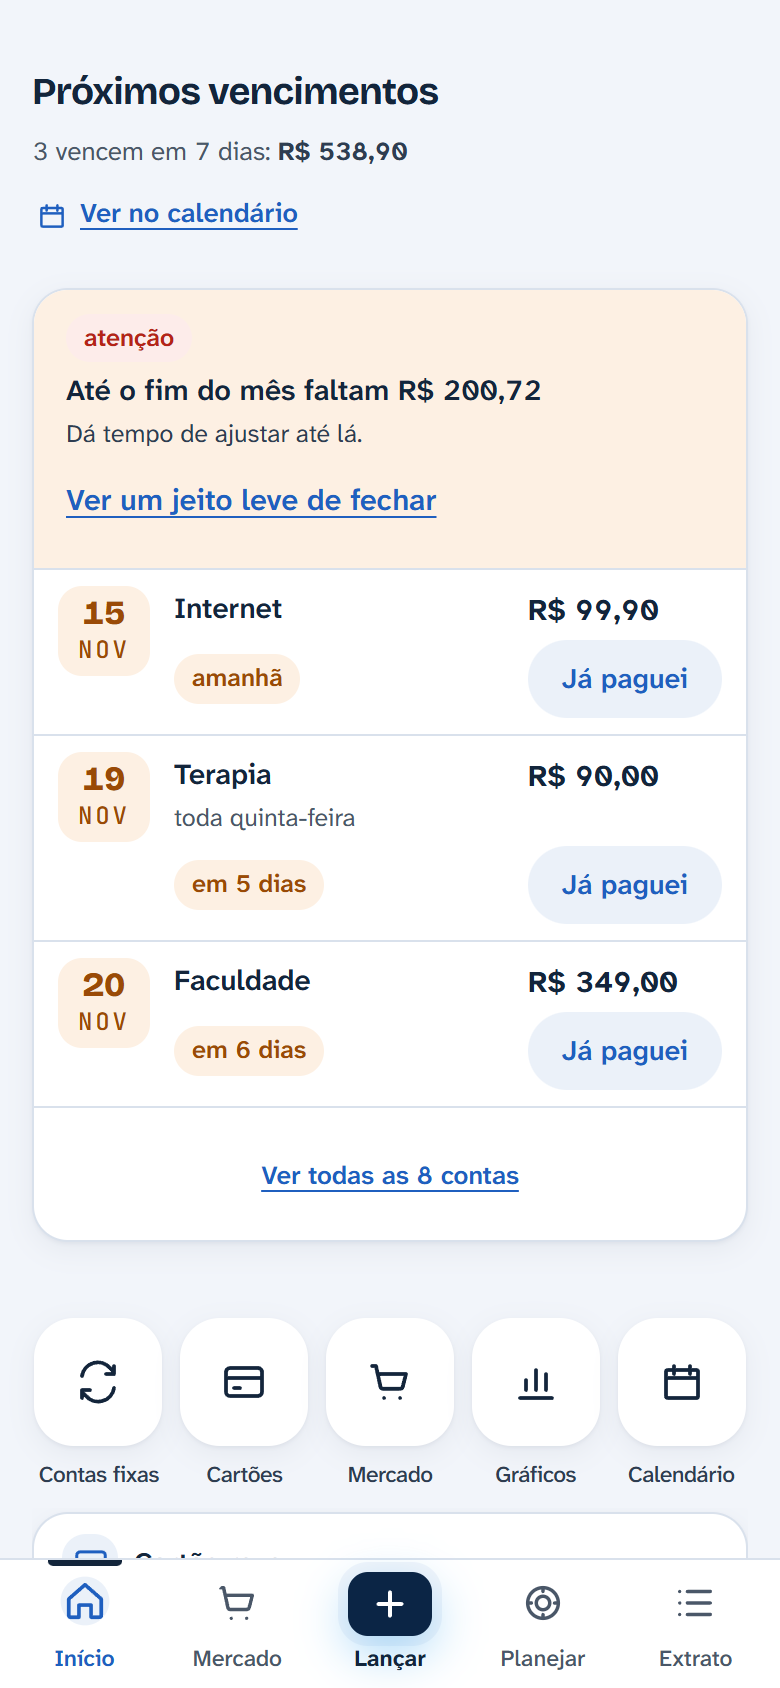
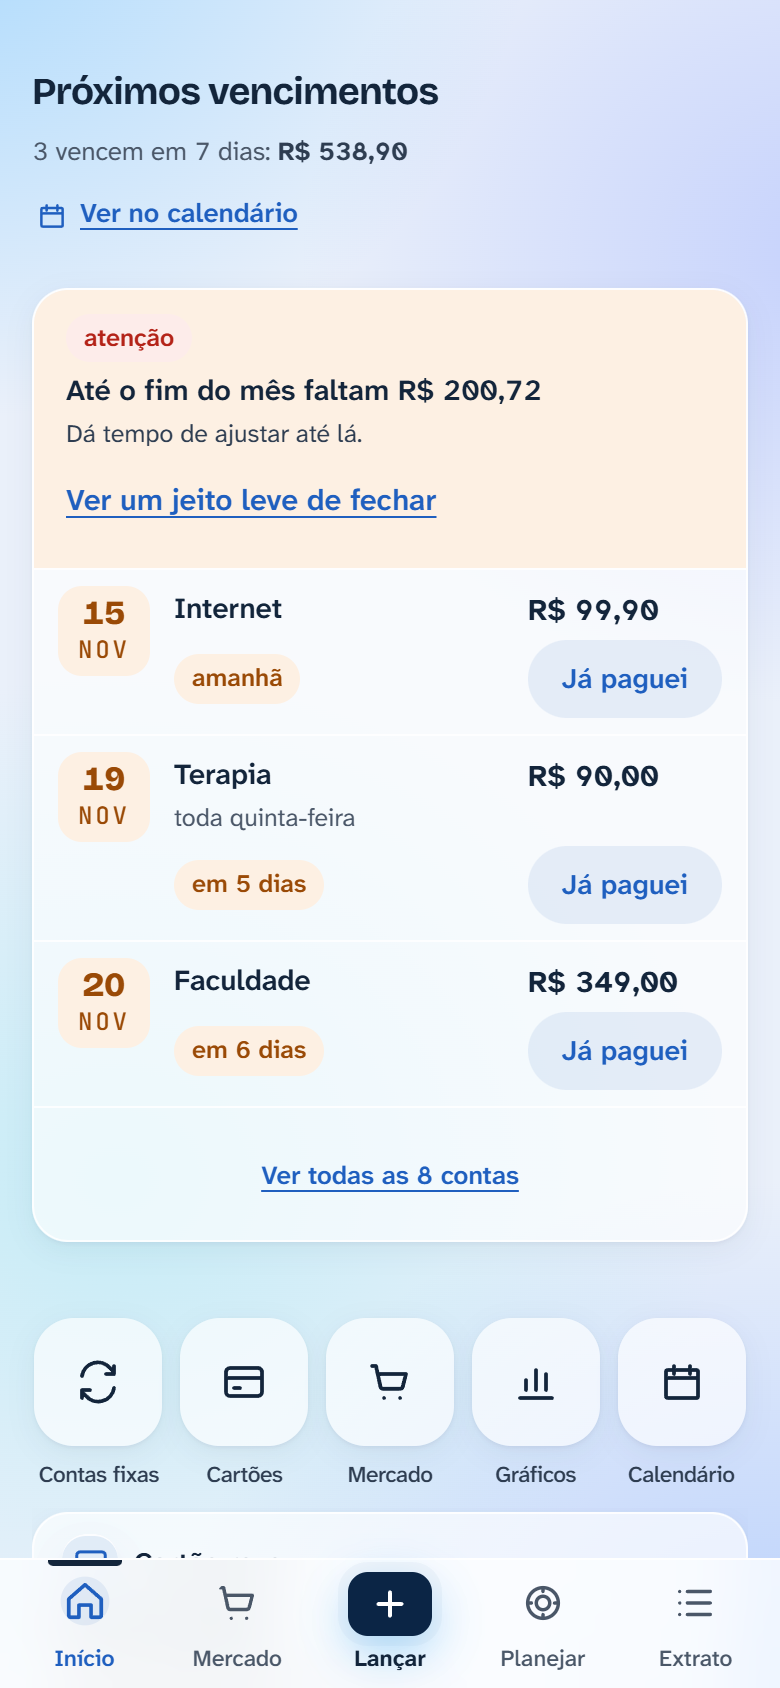
v267: visual de vidro no app e no site; bom-dia com o nome do e-mail e toque para mudar

diff --git a/css/tech.css b/css/tech.css
@@ -485,3 +485,30 @@ table.lanc td.num{font-family:var(--sans);letter-spacing:0;font-weight:700}
 :root[data-tema="escuro"] #lFiltros .seg{background:rgba(255,255,255,.06)}
 :root[data-tema="escuro"] #lFiltros .seg button[aria-pressed="true"]{background:#5fd4ff;color:#06203a}
 :root[data-tema="escuro"] table.lanc tr:not(.dia)::after{background:rgba(95,212,255,.14);color:#5fd4ff}
+
+/* v267: o bom-dia é um botão (toque para mudar o nome), mas continua com cara de título */
+button.saudacao{display:block;border:0;background:none;padding:0;text-align:left;cursor:pointer;min-height:32px}
+
+/* v267 "vidro": no tema claro, um fundo com manchas suaves de azul e ciano (paradas, atrás de tudo) e os cartões
+   brancos meio transparentes por cima, com borda clara, deixando a cor do fundo aparecer. As manchas já são borradas,
+   então não precisa de desfoque nos cartões (que pesaria em celular simples). Janelas e campos continuam brancos. */
+:root[data-tema="claro"]{
+  --surface:rgba(255,255,255,.66); --surface-2:rgba(255,255,255,.5); --sunk:rgba(220,230,245,.55); --border:rgba(255,255,255,.85);
+  --glass:rgba(255,255,255,.72);
+}
+:root[data-tema="claro"] body{background:#eaf0fa}
+:root[data-tema="claro"] body::before{content:"";position:fixed;inset:0;z-index:-1;pointer-events:none;
+  background:
+    radial-gradient(60vmax 50vmax at -10% -5%,rgba(120,200,255,.55),transparent 60%),
+    radial-gradient(55vmax 45vmax at 110% 15%,rgba(150,170,255,.45),transparent 60%),
+    radial-gradient(60vmax 50vmax at 15% 70%,rgba(140,230,240,.38),transparent 60%),
+    radial-gradient(60vmax 50vmax at 100% 100%,rgba(110,160,255,.4),transparent 60%),
+    #eaf0fa}
+:root[data-tema="claro"] .card,:root[data-tema="claro"] .panel,:root[data-tema="claro"] .ext-num,:root[data-tema="claro"] table.lanc tr:not(.dia),
+:root[data-tema="claro"] .agora-c,:root[data-tema="claro"] .mais-item,:root[data-tema="claro"] .hoje-item{box-shadow:0 8px 24px rgba(30,70,140,.08),inset 0 1px 0 rgba(255,255,255,.9)}
+:root[data-tema="claro"] .ext-num{background:var(--surface);border-color:var(--border)}
+:root[data-tema="claro"] dialog,:root[data-tema="claro"] .in,:root[data-tema="claro"] input,:root[data-tema="claro"] select,:root[data-tema="claro"] textarea{--surface:#fff;--surface-2:#f5f8fc;--sunk:#ebf0f7;--border:#d9e1ec}
+:root[data-tema="claro"] dialog{background:#fff}
+@media (max-width:700px){:root[data-tema="claro"] dialog,:root[data-tema="claro"] dialog::backdrop{background:#f2f5fa}}
+:root[data-tema="claro"] #bnav{background:rgba(255,255,255,.72);-webkit-backdrop-filter:blur(18px) saturate(1.4);backdrop-filter:blur(18px) saturate(1.4);border-top-color:rgba(255,255,255,.9)}
+:root[data-tema="claro"] .wrap[data-tab="mot"] #listas,:root[data-tema="claro"] #app[data-view="listas"][data-tab="mot"] #listas,:root[data-tema="claro"] body:has(#app[data-view="listas"][data-tab="mot"]){background:transparent}

diff --git a/js/app.js b/js/app.js
@@ -2754,9 +2754,24 @@ function juntaReservasAntigas() {
 /** "Bom dia, Marcos": o primeiro nome que a pessoa já deu ao app (recibo ou Arrumar lançamentos). Sem nome, só o cumprimento. */
 function saudacaoDoDia() {
   const h = new Date().getHours(), oi = h < 12 ? "Bom dia" : h < 18 ? "Boa tarde" : "Boa noite";
-  const nome = String(S.prefs.meuNome || S.prefs.recibo?.nome || "").trim().split(/\s+/)[0] || "";
-  return `<p class="saudacao">${oi}${nome ? `, ${esc(nome.charAt(0).toUpperCase() + nome.slice(1))}` : ""} 👋</p>`;
+  // O nome vem só do que a pessoa escolheu aqui ou do e-mail da conta. O nome do recibo e o "nome como no banco"
+  // podem ser de outra pessoa (o carro ou a conta no nome da esposa, por exemplo), então não servem para cumprimentar.
+  const nome = nomeDaSaudacao();
+  return `<button type="button" class="saudacao" id="saudaNome" aria-label="${oi}${nome ? ", " + esc(nome) : ""}. Toque para mudar como o app chama você">${oi}${nome ? `, ${esc(nome)}` : ""} 👋</button>`;
 }
+function nomeDaSaudacao() {
+  if (S.prefs.apelido !== undefined) return String(S.prefs.apelido || "").trim();
+  const n = String(nomeDoEmail($("whoName")?.textContent || "") || "").trim().split(/\s+/)[0] || "";
+  return n ? n.charAt(0).toUpperCase() + n.slice(1) : "";
+}
+/** Tocar no bom-dia: escolher como o app chama a pessoa (ou não usar nome). */
+function mudaApelido() {
+  openDlg(`<h3>Como quer ser chamado?</h3><p class="hint">Aparece só no bom-dia do Início. Deixe vazio para não usar nome.</p>
+    <label class="f wide">Seu nome<input class="in" id="apNome" maxlength="30" autocomplete="given-name" value="${esc(nomeDaSaudacao())}"></label>
+    <div class="mot-opcoes"><button class="btn primary" type="button" id="apSalva">Salvar</button><button class="btn" type="button" data-close>Cancelar</button></div>`);
+  $("apSalva").onclick = async () => { S.prefs.apelido = $("apNome").value.trim(); await salvaPrefs(); $("dlg").close(); render(); };
+}
+document.addEventListener("click", (e) => { if (e.target.closest?.("#saudaNome")) mudaApelido(); });
 /** O anel do Início: quanto do dinheiro livre do mês ainda resta (o arco) e onde deveria estar pelo dia de hoje (o tracinho). */
 function anelDoLivre(usado, tempo) {
   const resta = Math.max(0, 100 - usado), r = 26, c = 2 * Math.PI * r, arco = (c * resta) / 100;

diff --git a/js/novidades.js b/js/novidades.js
@@ -1,5 +1,6 @@
 /* O que mudou em cada versão, em palavras de quem usa o app. A tela "Novidades" mostra as últimas. */
 export const NOVIDADES = [
+  { versao: "267", itens: ["Visual novo de vidro: o fundo tem manchas suaves de azul e os cartões ficam meio transparentes por cima. A barra de baixo ficou fosca.", "O bom-dia do Início usa o nome do seu e-mail. Toque nele para escolher outro nome ou não usar nome."] },
   { versao: "266", itens: ["Extrato: no topo, três quadrinhos mostram quanto entrou, quanto falta pagar e a comparação com o mês passado.", "A aba escolhida (Tudo, Gastos, Entradas...) fica em azul, e cada lançamento tem uma setinha redonda mostrando que abre."] },
   { versao: "265", itens: ["Jornada: um anel mostra quanto da meta de hoje você já fez, com quanto ainda falta logo ao lado.", "Os atalhos da Jornada (Lançar outro dia, Por prints, Meus ganhos, Recibo) ganharam as mesmas cores suaves do Início."] },
   { versao: "264", itens: ["Início com cara nova: um bom-dia no topo, um anel mostrando quanto do dinheiro livre do mês ainda resta (o tracinho amarelo é onde ele deveria estar hoje) e o valor em letra grande.", "Os atalhos (Recebi, Escanear, Falar) ganharam cores suaves diferentes, para reconhecer sem ler, e os cartões têm uma seta que mostra que abrem."] },

diff --git a/site/index.html b/site/index.html
@@ -515,6 +515,10 @@ picture{display:contents}
 .fica-oculto{display:none!important}
 .ver-mais{display:block;margin:18px auto 0;min-height:44px;padding:10px 22px;border:1px solid var(--line);border-radius:999px;background:var(--surface);color:var(--ink);font:inherit;font-weight:600;cursor:pointer}
 @media (max-width:700px){.so-largo{display:none} #recursos~section .larga{display:none} .usar .barra-app{display:none}}
+/* v267 vidro, igual ao app: manchas suaves de azul e ciano paradas atrás de tudo e cartões brancos meio transparentes */
+:root{--surface:rgba(255,255,255,.7)}
+body{background:#eaf0fa}
+body::before{content:"";position:fixed;inset:0;z-index:-1;pointer-events:none;background:radial-gradient(60vmax 50vmax at -10% -5%,rgba(120,200,255,.55),transparent 60%),radial-gradient(55vmax 45vmax at 110% 15%,rgba(150,170,255,.45),transparent 60%),radial-gradient(60vmax 50vmax at 15% 70%,rgba(140,230,240,.38),transparent 60%),radial-gradient(60vmax 50vmax at 100% 100%,rgba(110,160,255,.4),transparent 60%),#eaf0fa}
 </style>
 <!-- v256: o site voltou ao claro de banco, igual ao app (o tema escuro antigo continua em tech.css, desligado) -->
 </head>

diff --git a/sw.js b/sw.js
@@ -1,7 +1,7 @@
 // Service worker: guarda os arquivos do app para abrir na hora, com ou sem sinal, e funcionar como app instalado.
 // Os dados (Supabase) sempre vêm da internet; sem conexão, o app usa a cópia e a fila do aparelho (js/store.js, comFila).
 // Ao mudar arquivos, aumente a VERSAO: é ela que faz os celulares baixarem a versão nova.
-const VERSAO = "meus-gastos-v266";
+const VERSAO = "meus-gastos-v267";
 const ARQUIVOS = [
   "./", "index.html", "css/style.css", "css/tech.css", "manifest.webmanifest",
   "js/app.js", "js/calc.js", "js/store.js", "js/excel.js", "js/leitor.js", "js/etiqueta.js", "js/notamercado.js", "js/qr.js", "js/extrato.js", "js/config.js", "js/voz.js", "js/extras.js", "js/conta.js", "js/escuta.js", "js/extratopdf.js", "js/motorista.js", "js/erros.js", "js/uso.js", "js/semana.js", "js/chat.js", "js/recibo.js", "js/anual.js", "js/prints.js", "js/ganhogasto.js", "js/novidades.js", "js/arrumar.js", "js/paraondefoi.js", "js/casalvisao.js",

diff --git a/js/config.js b/js/config.js
@@ -31,4 +31,4 @@ export const PLAY_PACOTE = "";
 // a pessoa nem sempre acha onde baixar. O código fica guardado; para religar, troque para true.
 export const IMPORTA_EXTRATO = false;
 
-export const APP_VERSAO = "266";
+export const APP_VERSAO = "267";

diff --git a/PAINEL.md b/PAINEL.md
@@ -22,6 +22,7 @@ Como usar: abra este arquivo no começo de cada dia. Quando terminar um item, tr
   - v252: testes de tela automáticos (`npm run telas`, 17 verificações) que abrem o app e fazem os caminhos de todo dia; os números do Início, do Planejar e da Jornada batem.
   - v253: caixas de aviso legíveis na Jornada no tema claro; testes de tela agora são 21 (Contas fixas, Cartões, Ganhos e tema claro incluídos).
   - v254 (pronta, falta publicar): menu de baixo com Mercado (Mais no topo); Extrato em partes (Meus, Casal, Contas fixas); categoria e km do painel só uma vez; aviso de troca de óleo; Desafio mais colorido; a Conversa do desafio saiu do app.js para js/chat.js.
+  - v267 (18/11, publicada): visual de vidro no tema claro (fundo com manchas em body::before, --surface translúcido, bnav fosco) no app e no site; fotos do site refeitas. Bom-dia usa S.prefs.apelido ou o nome do e-mail (antes pegava o nome do recibo, que era o da esposa do dono); tocar no bom-dia muda o nome.
   - v266 (17/11, publicada): Extrato com os exemplos do dono: três números no topo (ext-nums em fraseDoExtrato), aba ativa em azul cheio, valor em letra comum, seta redonda nas linhas.
   - v265 (17/11, publicada): anel da meta do dia na aba Começar (anelDaMeta) com "Faltam R$ X"; atalhos da Jornada com cor suave.
   - v264 (17/11, publicada): visual novo do Início inspirado nas referências do dono (sem copiar marcas): saudação (saudacaoDoDia), anel do livre no mês no cartão azul (anelDoLivre, no lugar da barra), atalhos com cor suave por ação, seta redonda nos cartões. Próximo: levar o anel para a Jornada (meta do dia).
